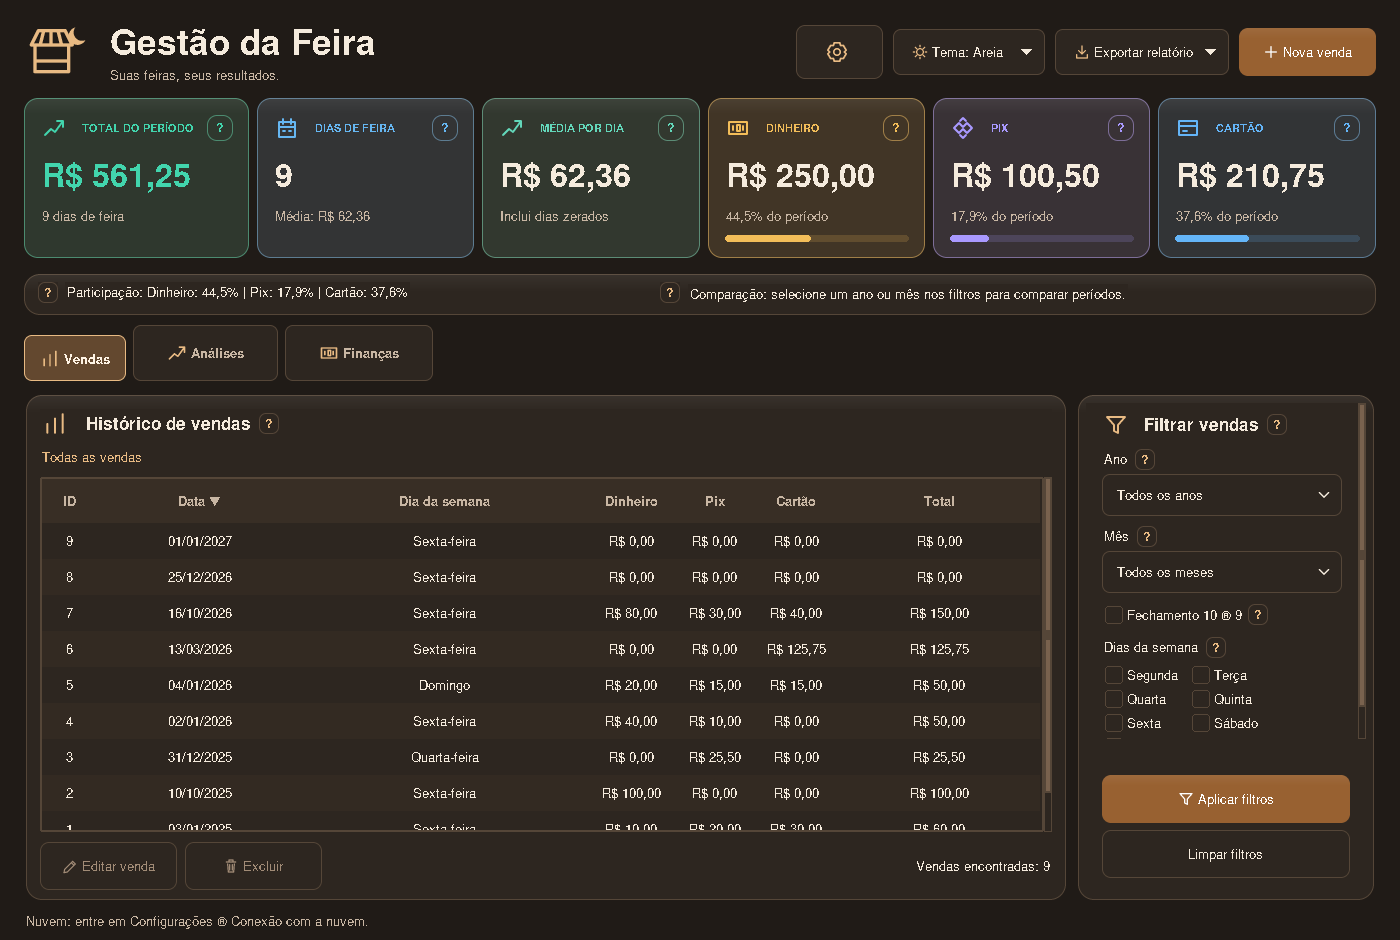
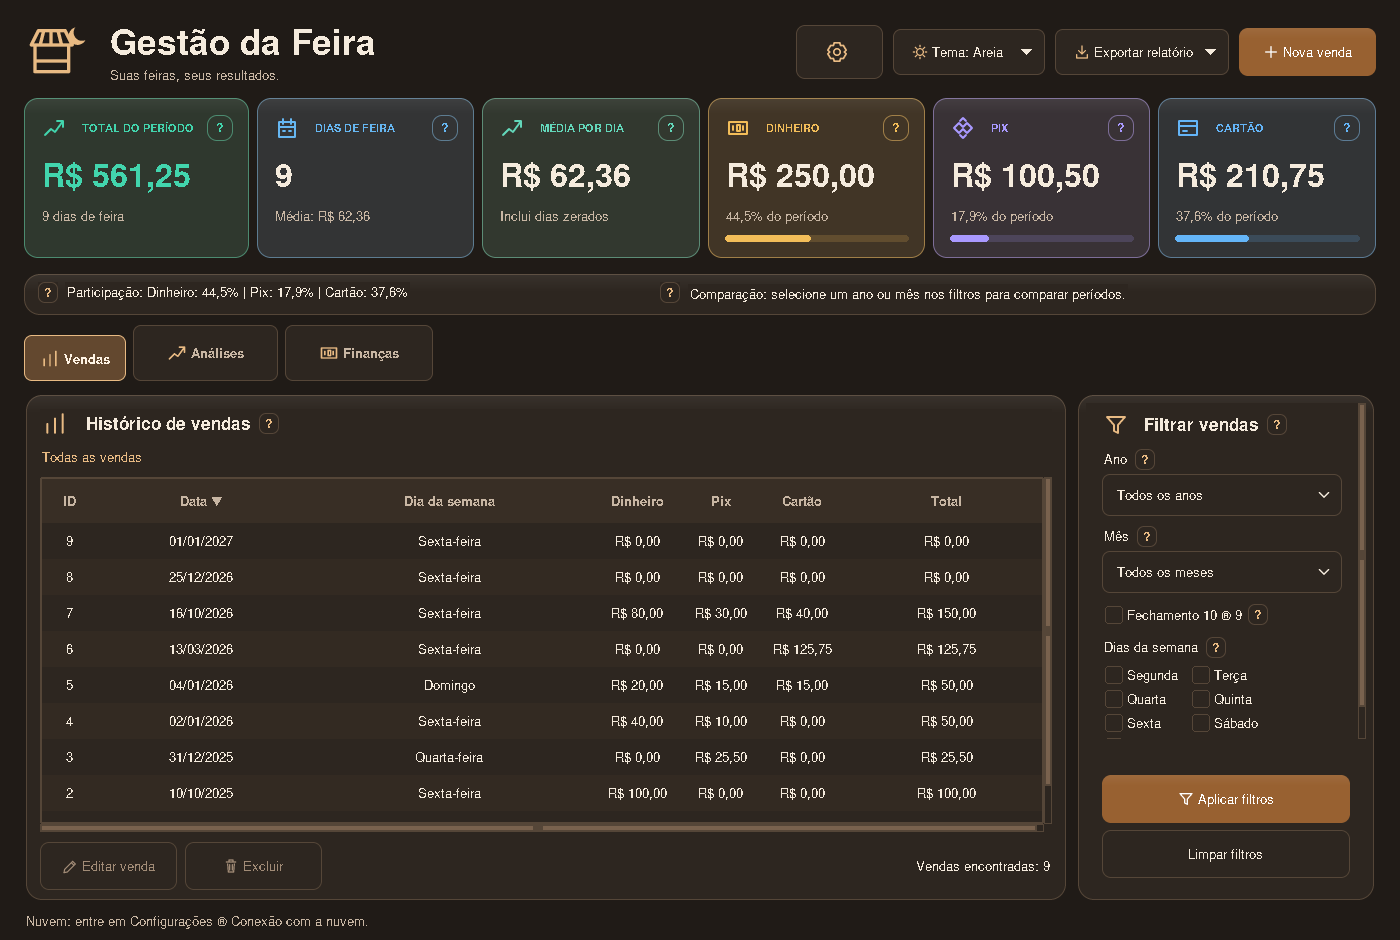
Preserva a área da tabela em janelas menores e prepara a versão 1.3.1

diff --git a/ProgramFeira/main.py b/ProgramFeira/main.py
@@ -16,7 +16,7 @@ from ProgramFeira.interface.painel_nuvem import ConexaoNuvem
 from ProgramFeira.nuvem import ErroNuvem
 from ProgramFeira.versao import VERSAO
 from ProgramFeira.diagnostico import registrar as registrar_erro
-from ProgramFeira.interface.icones import rotulo_icone
+from ProgramFeira.interface.icones import rotulo_icone, aplicar_icones
 from ProgramFeira.interface.indicadores import BarraParticipacao
 from ProgramFeira.interface.visual import aplicar_tema, ordenar_vendas, CORES, NOMES_TEMAS
 from ProgramFeira.preferencias import carregar_tema, salvar_tema
@@ -875,10 +875,11 @@ cabecalho.grid(row=0, column=0, sticky='ew')
 cabecalho.columnconfigure(0, weight=1)
 marca = ttk.Frame(cabecalho)
 marca.grid(row=0, column=0, rowspan=2, sticky='w')
-rotulo_icone(marca, 'marca', CORES, tamanho=64, estilo='TLabel').pack(side='left', padx=(0, 12))
+icone_marca = rotulo_icone(marca, 'marca', CORES, tamanho=64, estilo='TLabel')
+icone_marca.pack(side='left', padx=(0, 12))
 texto_marca = ttk.Frame(marca)
 texto_marca.pack(side='left')
-ttk.Label(texto_marca, text='Gestão da Feira', style='Title.TLabel').pack(anchor='w')
+ttk.Label(texto_marca, text='Gestão da Feira', style='Marca.Title.TLabel').pack(anchor='w')
 ttk.Label(texto_marca, text='Suas feiras, seus resultados.', style='Muted.TLabel').pack(anchor='w')
 acoes = ttk.Frame(cabecalho)
 acoes.grid(row=0, column=1, rowspan=2, sticky='e')
@@ -935,17 +936,21 @@ layout_compacto = None
 
 def organizar_cartoes(event=None):
     global layout_colunas, layout_compacto
-    compacto = janela.winfo_height() < 760
+    compacto = janela.winfo_height() < 820
     if compacto != layout_compacto:
         layout_compacto = compacto
         familia = font.nametofont('TkDefaultFont').actual('family')
+        cabecalho.configure(padding=(24, 8, 24, 6) if compacto else (24, 18, 24, 12))
+        icone_marca.icone_tamanho = 42 if compacto else 64
+        aplicar_icones(icone_marca, CORES)
+        ttk.Style(janela).configure('Marca.Title.TLabel', font=(familia, 20 if compacto else 26, 'bold'))
         ttk.Style(janela).configure('CardValue.TLabel', font=(familia, 14 if compacto else 18, 'bold'))
         for chave, card in zip(indicadores_visuais, cartoes):
-            card.configure(padding=(12, 7) if compacto else (16, 16))
+            card.configure(padding=(12, 5) if compacto else (16, 16))
             card.winfo_children()[1].pack_configure(pady=(4, 0) if compacto else (12, 10))
             for widget, opcoes in zip(card.detalhes, card.packs_detalhes):
                 widget.pack_forget() if compacto else widget.pack(**opcoes)
-            ttk.Style(janela).configure(f'{chave}.Valor.TLabel', font=(familia, 16 if compacto else 24, 'bold'))
+            ttk.Style(janela).configure(f'{chave}.Valor.TLabel', font=(familia, 14 if compacto else 24, 'bold'))
     colunas = 6 if area_cartoes.winfo_width() >= 1120 else 3
     if colunas == layout_colunas:
         return

diff --git a/tests/test_interface.py b/tests/test_interface.py
@@ -176,7 +176,7 @@ with patch.object(a.filedialog, 'asksaveasfilename', return_value=''), patch.obj
 a.janela.geometry('980x700')
 a.janela.update()
 assert a.layout_colunas == 3
-assert a.tabela.winfo_height() > 70
+assert a.tabela.winfo_height() > 70, f'Tabela com {a.tabela.winfo_height()} px em janela reduzida'
 assert a.filtro_ano_combobox.winfo_viewable()
 assert a.painel_filtros.winfo_rooty() == a.area_tabela.winfo_rooty()
 assert a.painel_filtros.winfo_rootx() > a.area_tabela.winfo_rootx()

diff --git a/ProgramFeira/versao.py b/ProgramFeira/versao.py
@@ -1,2 +1,2 @@
 """Versão exibida no aplicativo e nos registros de diagnóstico."""
-VERSAO = '1.3.0'
+VERSAO = '1.3.1'

diff --git a/README.md b/README.md
@@ -21,7 +21,7 @@ A aba **Vendas** mostra valores brutos. A aba **Finanças** desconta as taxas e 
 O código atual oferece cinco temas: **Noite, Claro, Grafite, Areia escura e Aurora**.
 Escolha no botão **Tema**; a preferência fica salva neste computador. Os cartões
 mostram a participação de cada pagamento, e as barras de rolagem do histórico e
-dos filtros aparecem apenas quando necessárias. Essas mudanças estão incluídas no executável **v1.3.0**.
+dos filtros aparecem apenas quando necessárias. Essas mudanças estão incluídas no executável **v1.3.1**.
 
 ## Conheça a interface
 
@@ -57,7 +57,7 @@ Para atualizar o código, feche o programa e execute `git pull --ff-only`. Um ex
 
 ## Versão para celular — em desenvolvimento
 
-A PWA está em `web/`, com login pessoal, vendas e finanças online. O código atualizado do desktop permite migrar os dados e sincronizar inclusões, edições e exclusões automaticamente a cada minuto enquanto estiver aberto e autenticado, ou pelo botão **Sincronizar agora**, com backup e proteção contra conflitos. Configure seu próprio projeto Supabase e a hospedagem no Cloudflare Pages. A aba Finanças permite consultar saldo, despesas, parcelas e taxas. A aba Análises mostra pagamentos e dias da semana, além de comparar datas, meses, fechamentos e intervalos. A tela web consulta a nuvem automaticamente a cada minuto enquanto estiver visível, preservando formulários e filtros em preparação. O executável Windows v1.3.0 inclui a integração com a nuvem e a recuperação da sessão protegida.
+A PWA está em `web/`, com login pessoal, vendas e finanças online. O código atualizado do desktop permite migrar os dados e sincronizar inclusões, edições e exclusões automaticamente a cada minuto enquanto estiver aberto e autenticado, ou pelo botão **Sincronizar agora**, com backup e proteção contra conflitos. Configure seu próprio projeto Supabase e a hospedagem no Cloudflare Pages. A aba Finanças permite consultar saldo, despesas, parcelas e taxas. A aba Análises mostra pagamentos e dias da semana, além de comparar datas, meses, fechamentos e intervalos. A tela web consulta a nuvem automaticamente a cada minuto enquanto estiver visível, preservando formulários e filtros em preparação. O executável Windows v1.3.1 inclui a integração com a nuvem e a recuperação da sessão protegida.
 
 O guia de configuração e os limites desta etapa estão em [CELULAR.md](docs/CELULAR.md).
 

diff --git a/.github/notas-executavel.md b/.github/notas-executavel.md
@@ -1,14 +1,15 @@
-A versão **1.3.0** renova o visual do Gestão da Feira e mantém seus dados e configurações.
+A versão **1.3.1** renova o visual do Gestão da Feira e mantém seus dados e configurações.
 
 - Cinco temas: Noite, Claro, Grafite, Areia escura e Aurora.
 - Grafite com verde esmeralda e Aurora com roxo `#52057B` nas ações principais.
 - Cartões com informações complementares e participação de dinheiro, Pix e cartão.
 - Histórico com melhor aproveitamento da largura, abas espaçadas e rolagem discreta quando necessária.
+- Modo compacto ajustado para manter a tabela acessível em janelas menores no Windows.
 - Textos revisados e abertura mais rápida, reutilizando os desenhos dos ícones e contornos.
 
-[Veja as capturas e funcionalidades](https://github.com/SilvioCf27/Programa-de-Vendas/blob/v1.3.0/docs/INTERFACE.md). Todas as imagens usam dados fictícios.
+[Veja as capturas e funcionalidades](https://github.com/SilvioCf27/Programa-de-Vendas/blob/v1.3.1/docs/INTERFACE.md). Todas as imagens usam dados fictícios.
 
-![Gestão da Feira no tema Grafite](https://raw.githubusercontent.com/SilvioCf27/Programa-de-Vendas/v1.3.0/docs/imagens/vendas-grafite.png)
+![Gestão da Feira no tema Grafite](https://raw.githubusercontent.com/SilvioCf27/Programa-de-Vendas/v1.3.1/docs/imagens/vendas-grafite.png)
 
 Baixe **GestaoDaFeira-Windows-x64.zip**, extraia a pasta inteira e abra **GestaoDaFeira.exe**. Não precisa instalar Python ou VS Code. Mantenha a pasta `_internal` junto do executável.
 

diff --git a/docs/EXECUTAVEL.md b/docs/EXECUTAVEL.md
@@ -10,7 +10,7 @@ Mantenha a pasta inteira. A pasta `_internal` contém Python, Tcl/Tk, biblioteca
 
 O pacote é para **Windows 10/11 x64**. Não há assinatura digital: o Windows pode mostrar um aviso de editor desconhecido. Confira que o arquivo veio do repositório acima. O arquivo `SHA256.txt`, disponível junto do ZIP, permite conferir a integridade do download.
 
-## Versão 1.3.0
+## Versão 1.3.1
 
 A interface ganhou cinco temas, cartões com participação dos pagamentos, abas
 mais espaçadas e barras de rolagem discretas, exibidas somente quando necessárias

diff --git a/docs/INTERFACE.md b/docs/INTERFACE.md
@@ -1,6 +1,6 @@
 # Conheça o Gestão da Feira
 
-As capturas mostram o aplicativo desktop v1.3.0 com **dados fictícios**.
+As capturas mostram o aplicativo desktop v1.3.1 com **dados fictícios**.
 Os exemplos não fazem parte do banco distribuído. Fontes e detalhes de renderização
 podem variar conforme o sistema e a escala da tela.
 
